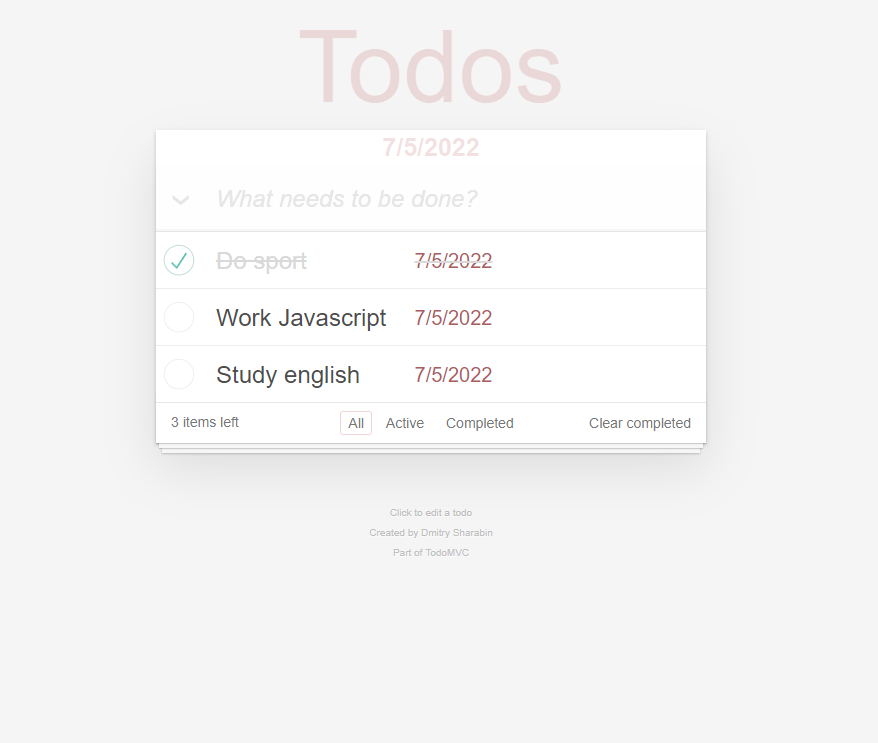
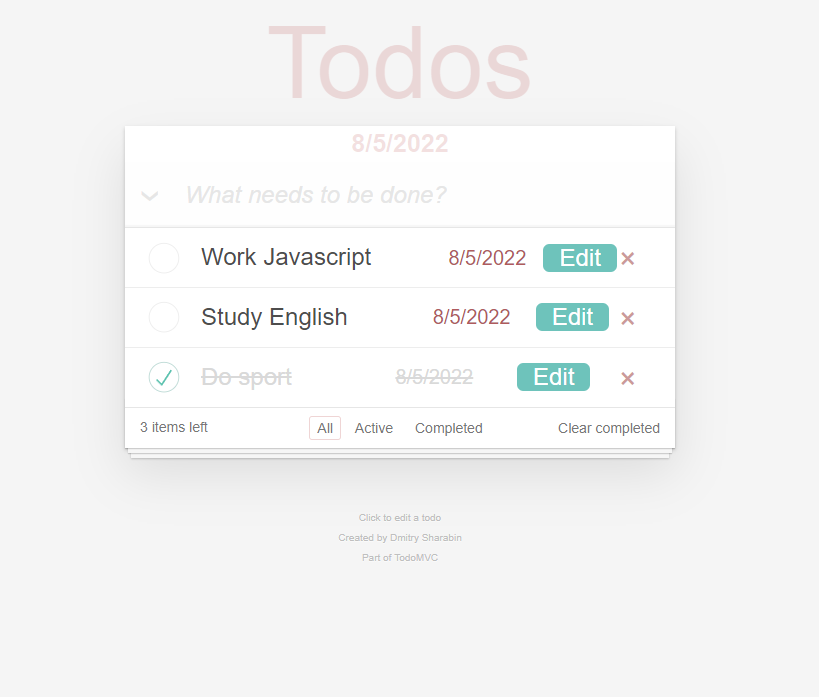
ss upload

diff --git a/README.md b/README.md
@@ -4,11 +4,12 @@ This project is the 2nd assignment in the fronted path react lessons on the [pat
 
 ## Features
 
-- Adding a new task
-- Task completion
-- Delete a task
-- Clear all tasks
-- Task filtering
+- Adding a new todo
+- Edit todo
+- Todo completion
+- Delete a Todo
+- Clear all Todos
+- Todos filtering
 
 ## Run it on your computer
 
